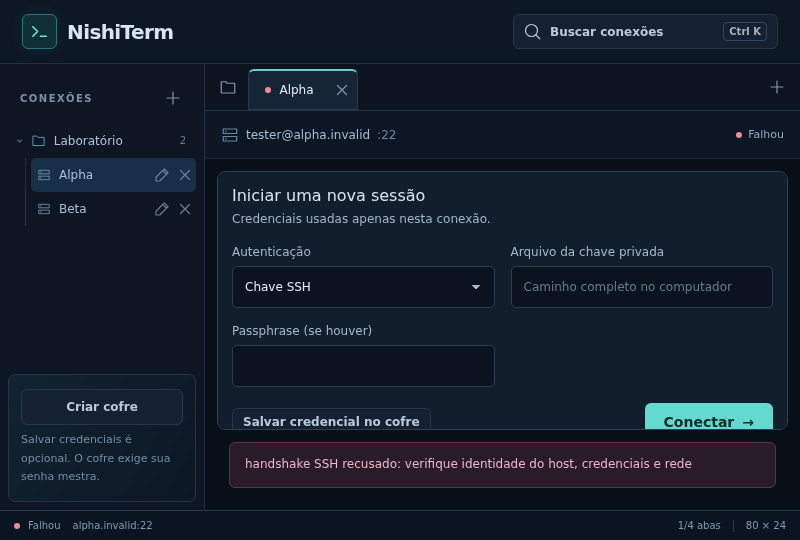
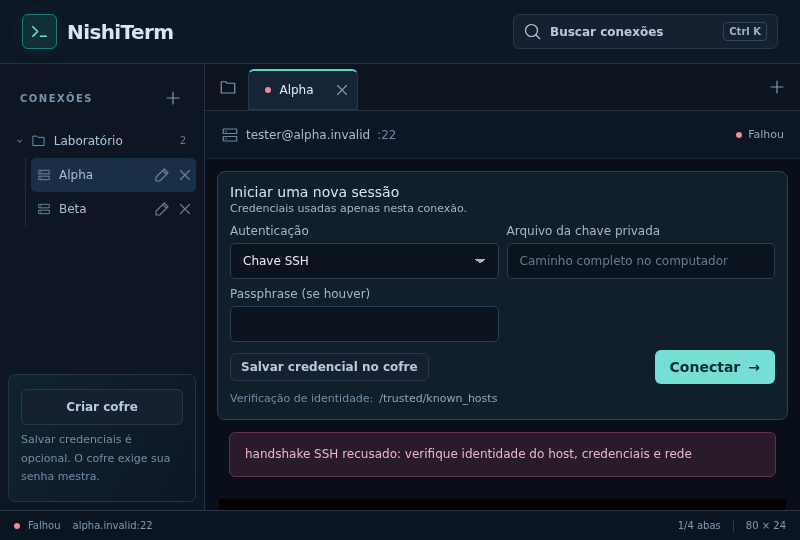
Keep authentication actions fully visible in compact windows

diff --git a/frontend/src/style.css b/frontend/src/style.css
@@ -913,3 +913,38 @@ details.wide summary {
     padding: 14px;
   }
 }
+@media (max-height: 650px) {
+  .auth-card {
+    gap: 8px;
+    padding: 12px;
+    max-height: calc(100% - 120px);
+  }
+  .auth-card h2 {
+    font-size: 14px;
+    margin-bottom: 2px;
+  }
+  .auth-card p {
+    font-size: 11px;
+    line-height: 1.3;
+  }
+  .auth-card label {
+    gap: 5px;
+  }
+  .auth-card input,
+  .auth-card select {
+    height: 36px;
+    padding-top: 7px;
+    padding-bottom: 7px;
+  }
+  .auth-card select {
+    background-position:
+      calc(100% - 18px) 15px,
+      calc(100% - 13px) 15px;
+  }
+  .auth-card .credential-actions button[type="submit"] {
+    padding: 8px 14px;
+  }
+  .terminal {
+    min-height: 0;
+  }
+}

diff --git a/frontend/tests/terminal.spec.ts b/frontend/tests/terminal.spec.ts
@@ -465,7 +465,7 @@ test("key authentication clears passphrase and never saves credentials", async (
   await page.setViewportSize({ width: 800, height: 540 });
   await expect(
     page.getByRole("button", { name: "Conectar", exact: true }),
-  ).toBeInViewport();
+  ).toBeInViewport({ ratio: 1 });
   await page.screenshot({
     path: path.resolve("../docs/evidence/product-ui/key-auth-fixture.png"),
   });
